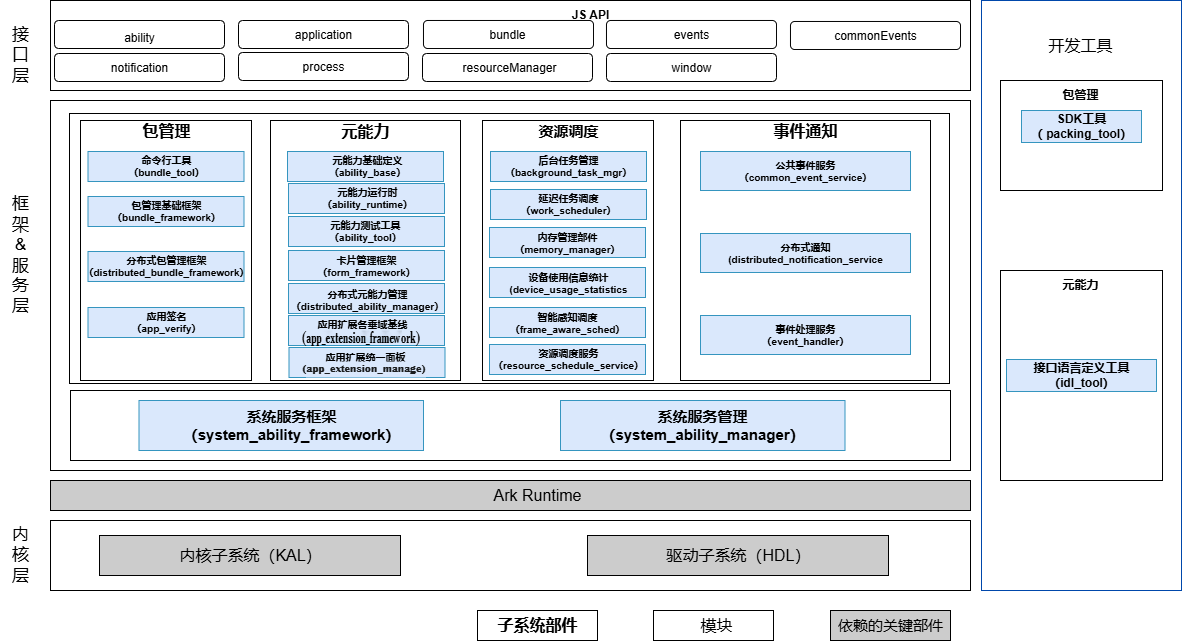
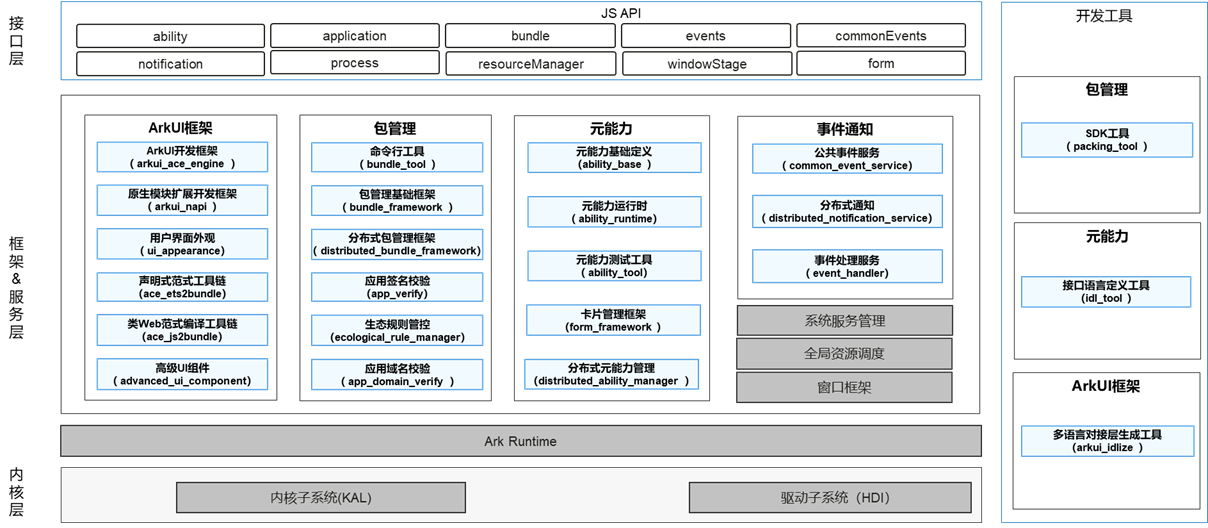
Update sig_appframework tech map and overview

diff --git a/sig/sig_appframework/sig_appframework_cn.md b/sig/sig_appframework/sig_appframework_cn.md
@@ -42,6 +42,14 @@ ApplicationFramework SIG技术栈范围全景图如下图所示：
 | 智能感知调度     | 通过获取应用的生命周期状态、应用绘帧等信息，调节内核调度参数，从而控制内核调度行为，保障系统进程调度供给。 | frame_aware_sched                             |
 | 应用扩展各垂域基线     | 1、图片编辑应用扩展的基线定义，涉及垂域ability和context定义； 2、其他垂域扩展的基线定义，比如action等。 | app_extension_framework                 |
 | 应用扩展统一面板     | 支撑应用选择框、图片编辑、导航、金融等各垂域的统一面板处理逻辑。 | app_extension_manage                        |
+|应用域名校验|提供App Linking相关的域名校验能力，以及应用与域名的映射关系的管理等。|bundlemanager_app_domain_verify|
+| ArkUI开发框架 | ArkUI框架是OpenHarmony UI开发框架，提供开发者进行应用UI开发时所必需的能力，包括UI组件、动画、绘制、交互事件、JS API扩展机制等。 | arkui_ace_engine |
+| 原生模块扩展开发框架 | NAPI是基于Node.js N-API规范开发的原生模块扩展框架，提供标准化接口支持。 | arkui_napi |
+| 用户界面外观 | 管理和配置系统的用户界面外观，不包括产品化应用定制的外观模式。 | arkui_ui_appearance |
+| 声明式范式工具链 | 提供声明式范式的语法编译转换，语法验证，丰富友好的语法报错提示能力。 | developtools_ace_ets2bundle |
+| 类Web范式编译工具链 | 提供类Web范式的语法编译转换、语法验证，丰富友好的语法报错提示。 | developtools_ace_js2bundle |
+| 高级UI组件 | advanced_ui 是基于使用场景设计，为应用提供高效的UI组合，接口封闭、风格一致，开箱即用的组件接口。 | arkui_advanced_ui_component |
+| 多语言对接层生成工具 | 为ArkUI开发提供一个效率提升工具，能够让ArkUI开发使用Idlize工具快速的为ArkUI生成多种语言的桥接层代码。 | arkui_idlize |
 
 ## SIG组成员
 
